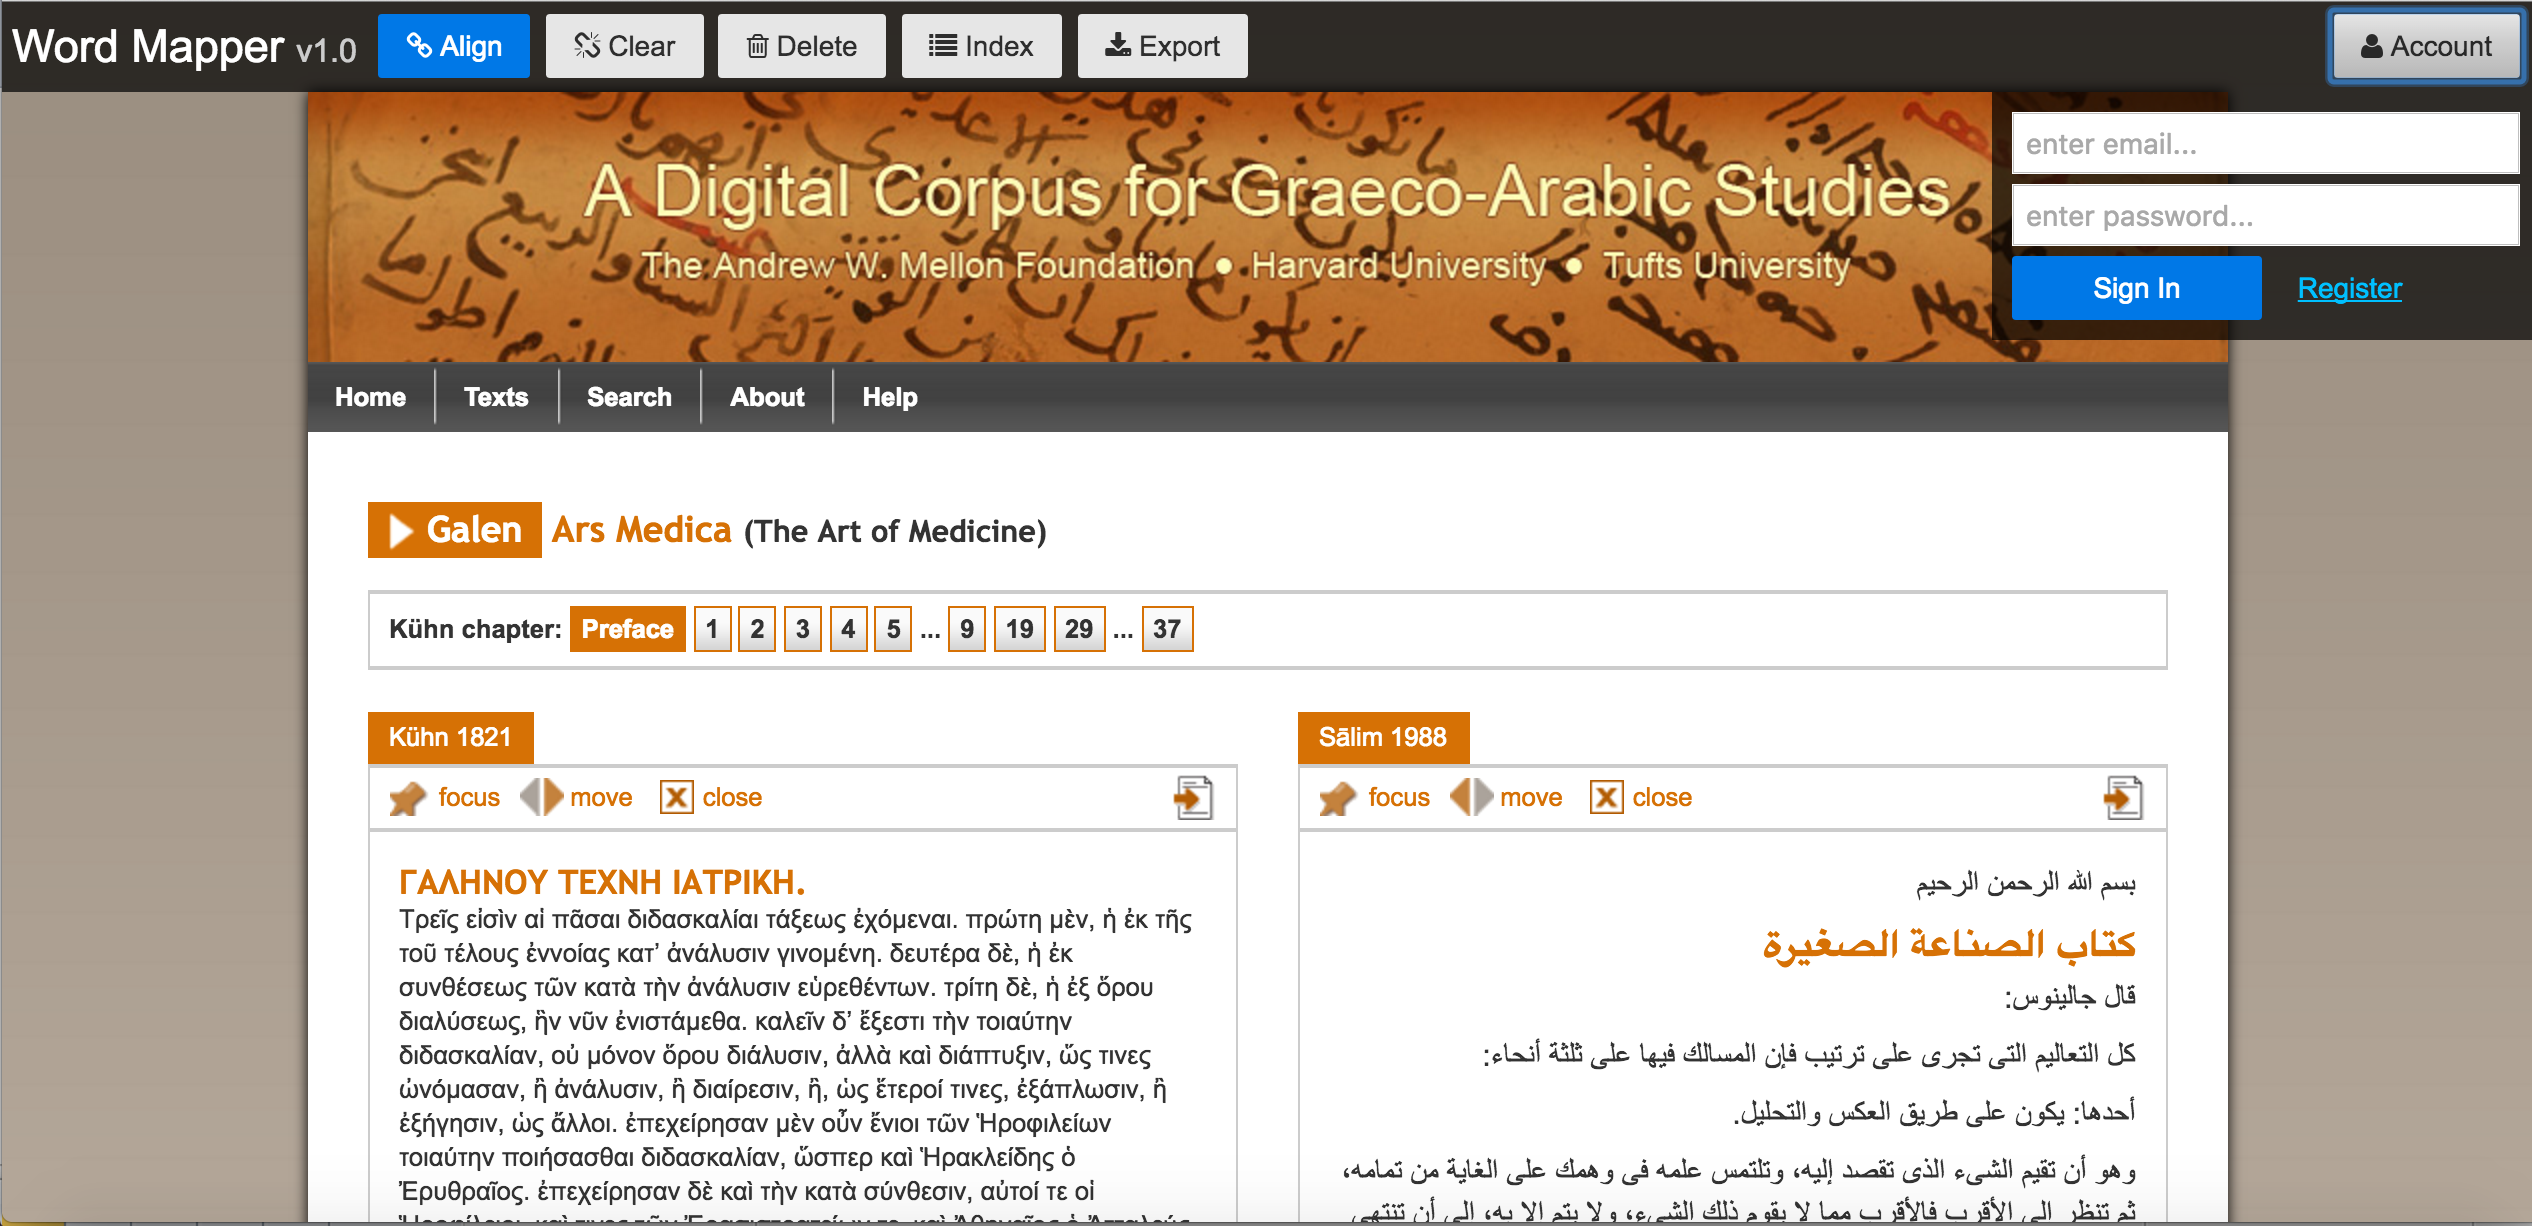
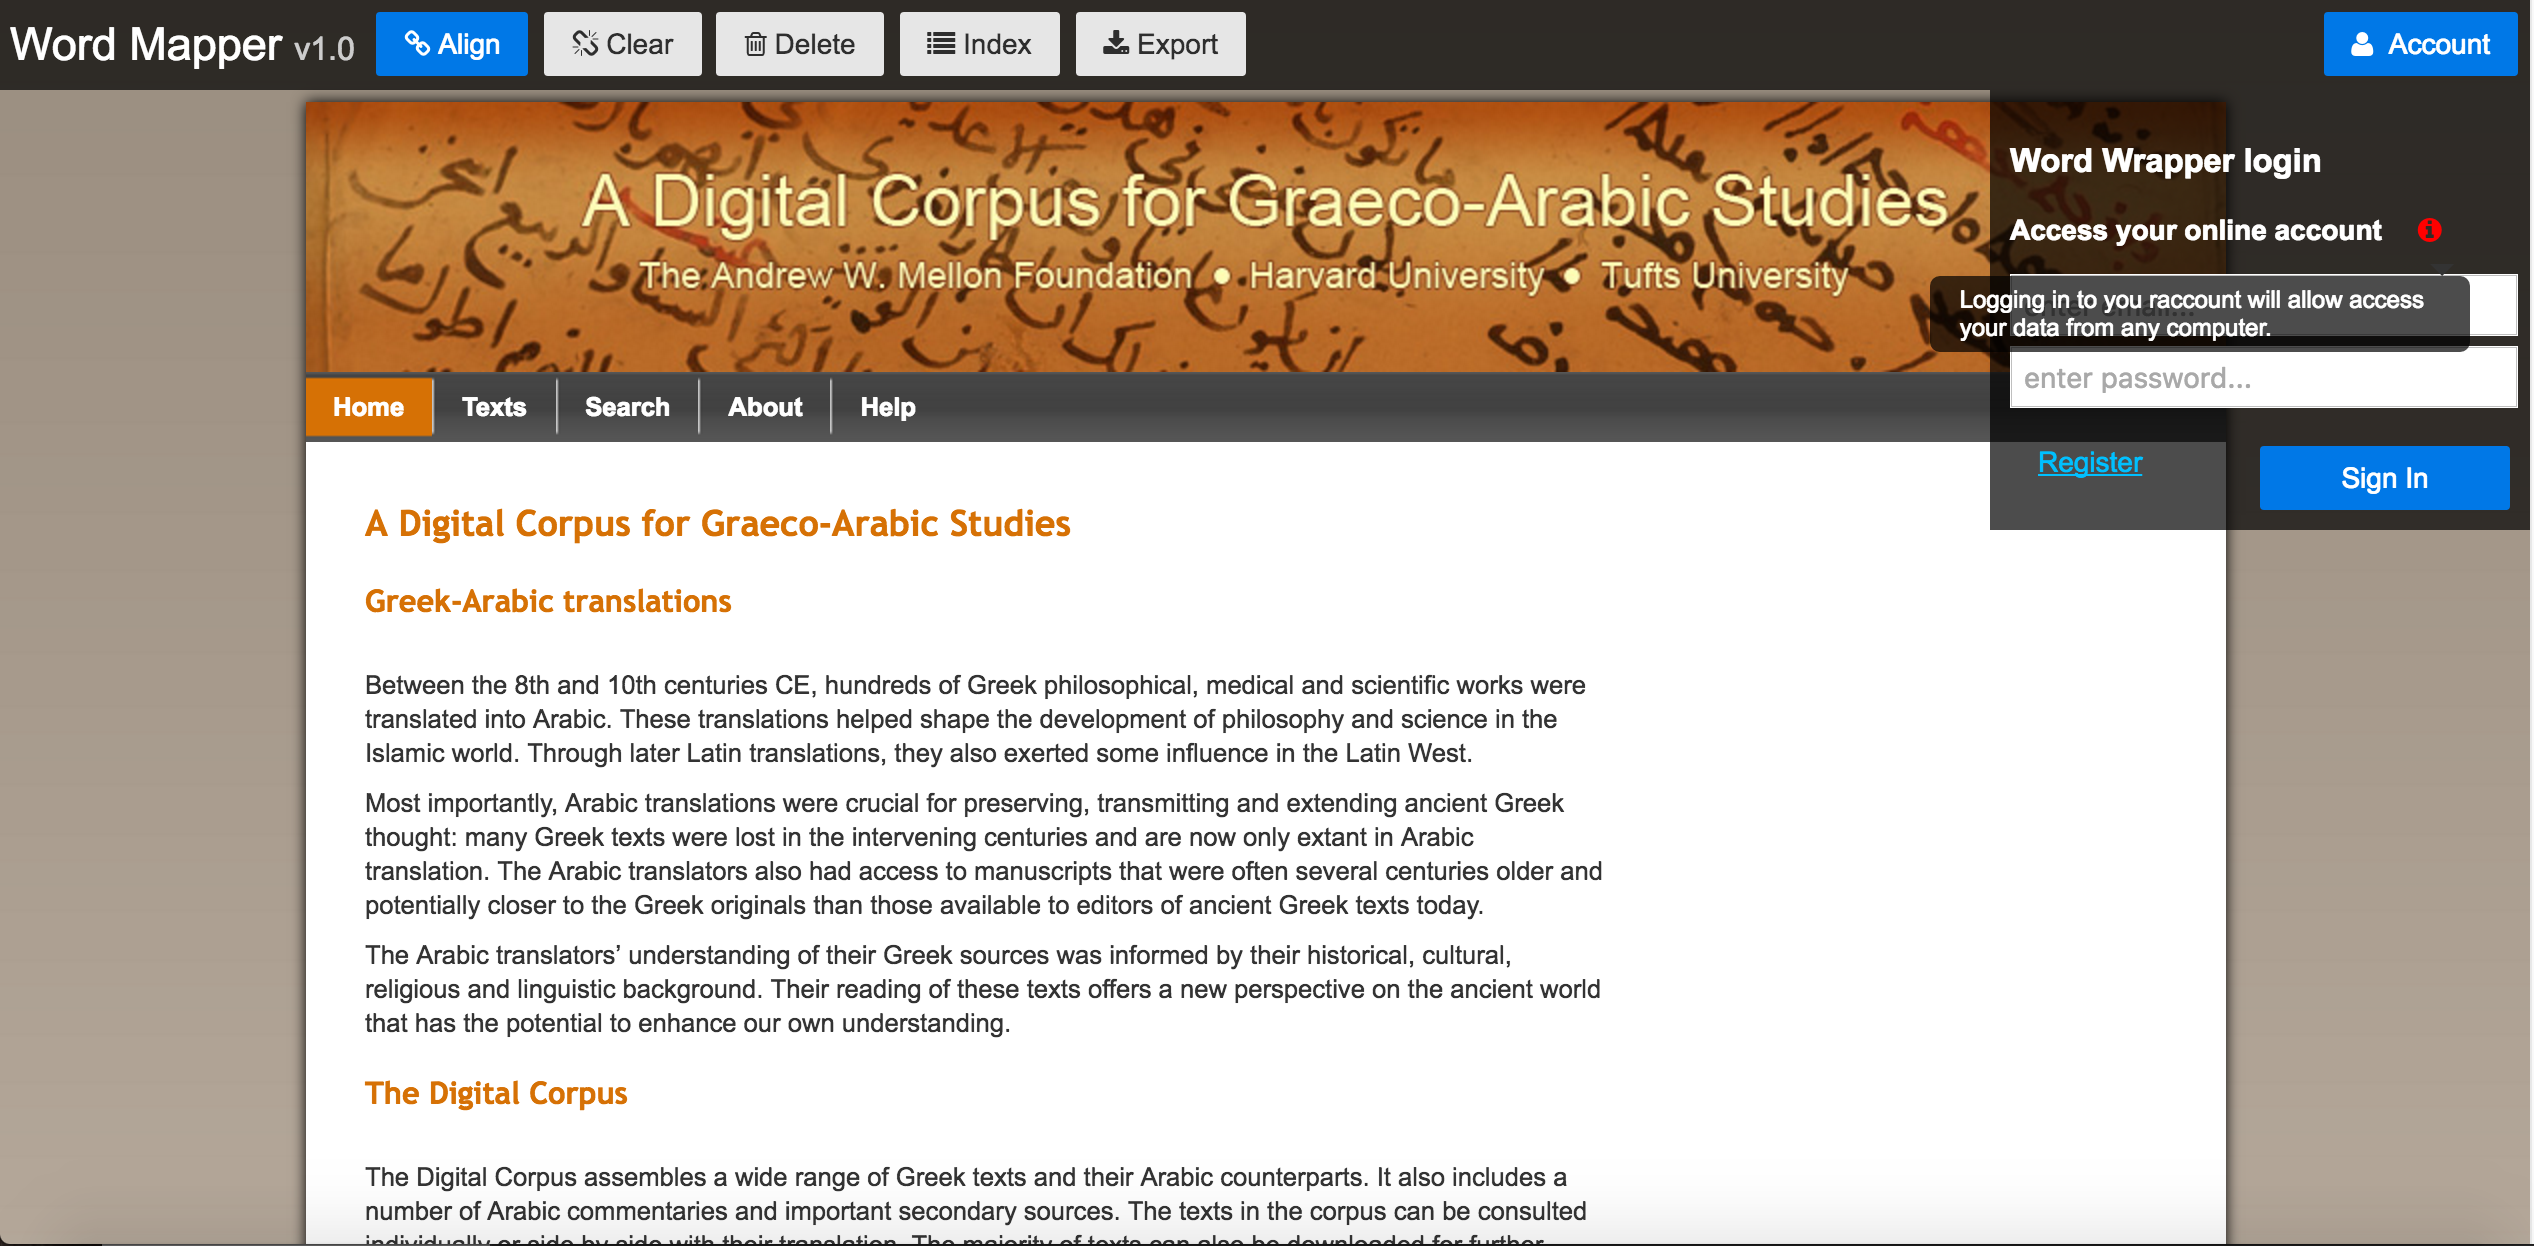
WordMapper_login_UI, proposed interface screen and UI code

Changed region(s): [[0.0, 0.0, 1.0, 1.0], [0.5928, 0.7129, 0.8424, 0.8679]]

diff --git a/WordMapper_login_UI/index.html b/WordMapper_login_UI/index.html
@@ -1,25 +1,66 @@
-<!-- UI comment - current button -->
+<!-- UI comment - changing the Account button to "primary" since we want users to consider this a primary action  -->
 
 <div class="wordmapper-buttons wordmapper-buttons-right">
-	<button name="login" class="wordmapper-account-btn"><i class="fa fa-user"></i> <span>Account</span></button>
+	<button name="login" class="primary wordmapper-account-btn"><i class="fa fa-user"></i>&nbsp;&nbsp;<span>Account</span></button>
 </div>
 
-<!-- UI comment - current login interface -->
+<!-- UI comment - adding styles to add a multi-line tooltip upon hovering the new info icon -->
 
 <div>
+
+	<style>
+	.wordmapper-link-tooltip {
+    display: inline;
+    position: relative;
+}
+.wordmapper-link-tooltip:hover:after{
+    font-size: 12px;
+    background: #333;
+    background: rgba(0,0,0,.7);
+    border-radius: 5px;
+    top: 38px;
+    color: #fff;
+    content: attr(alt);
+    right: 0;
+    padding: 5px 15px;
+    position: absolute;
+    width: 20em;
+}
+.wordmapper-link-tooltip:hover:before{
+    border: solid;
+    border-color: #333 transparent;
+    border-width: 6px 6px 0 6px;
+    top: 32px;
+    content: "";
+    left: 50%;
+    position: absolute;
+}
+.info-link {
+    font-family: inherit;
+    font-size: 100%;
+    padding: 0.5em 1em;
+    border: none rgba(0, 0, 0, 0);
+    text-decoration: none;
+    height: 32px;
+}
+	</style>
 <!-- wordmapper/client/src/html/login.html -->
 	<div class="wordmapper-account" style="display: block;">
-  
+
+	  	<h3 style="color:#fff">Word&nbsp;Wrapper login</h3>
+	  	<div style="color:#fff; margin-bottom: 1em"><strong>Access your online account</strong> 
+	  		<a name="export" class="info-link wordmapper-link-tooltip" alt="Logging in to you raccount will allow access your data from any computer."><i class="fa fa-info-circle"></i></a></div>
+
 	  	<div class="wordmapper-login">
 		    <input type="text" name="email" placeholder="enter email...">
 		    <input type="password" name="password" placeholder="enter password...">
+	    
+	      	<p><a href="http://localhost:8000/user/register" target="_blank" style="margin-left:1em;">Register</a>
 		    
-		    <button name="login" class="primary" style="width: 125px;">Sign In</button>
-	    
-	      	<a href="http://localhost:8000/user/register" target="_blank" style="margin-left:1em;">Register</a>
-	    
+		    <button name="login" class="primary pull-right" style="width: 125px;">Sign In</button></p>
+		    
 	  	</div>
-	  
+		  
 	</div>
-	
+
 </div>
